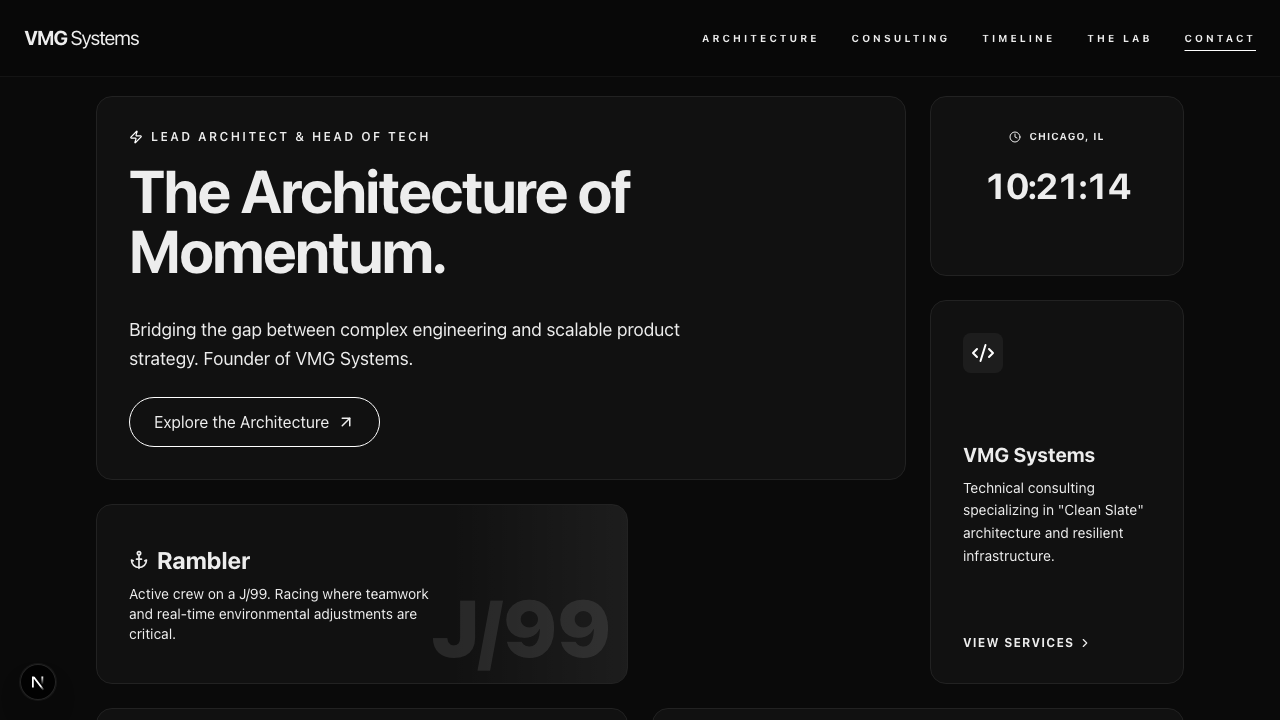
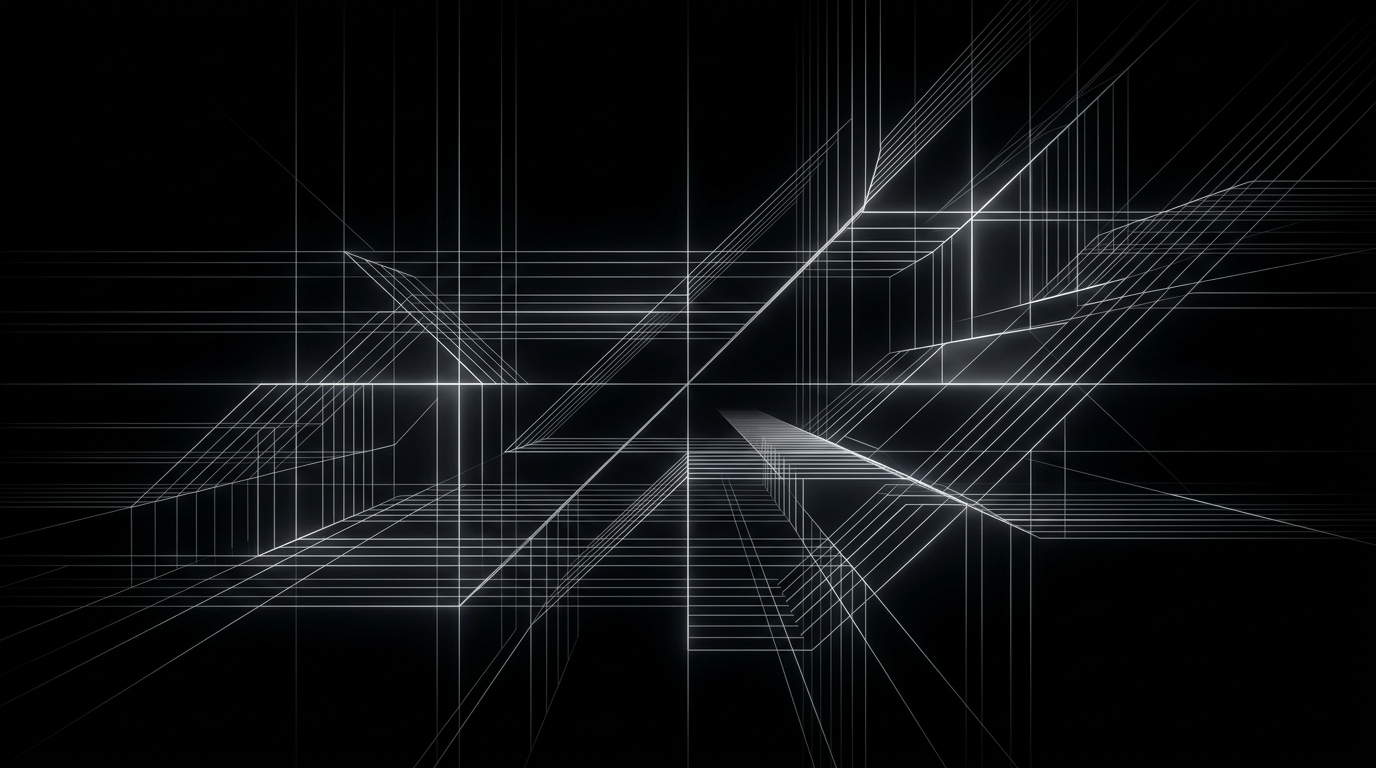
feat(ui): update custom dark-mode background visuals and card typography

diff --git a/src/app/page.tsx b/src/app/page.tsx
@@ -75,8 +75,8 @@ export default function Home() {
               <Zap size={14} className="text-white" />
               <span>Lead Architect & Head of Tech</span>
             </div>
-            <h1 className="text-4xl md:text-5xl lg:text-7xl font-black tracking-tighter mb-4 text-white leading-[1.1]">
-              The Architecture of <br />
+            <h1 className="text-4xl md:text-5xl lg:text-6xl font-black tracking-tight mb-4 text-white leading-tight md:leading-tight">
+              Architecture of <br />
               <span className="text-white">Momentum.</span>
             </h1>
             <p className="text-white/70 text-base md:text-lg leading-relaxed mb-8 max-w-xl font-medium">
@@ -127,18 +127,29 @@ export default function Home() {
         {/* Sailing / Lab Card */}
         <motion.div 
           variants={item}
-          className="glass-card md:col-span-2 flex items-center justify-between group cursor-default relative overflow-hidden"
+          className="glass-card md:col-span-2 group cursor-default relative overflow-hidden !p-0 border border-[#1a1a1a] flex flex-col justify-center"
         >
-          <div className="relative z-10">
-            <h3 className="text-2xl font-bold mb-2 flex items-center gap-2">
-              <Anchor size={20} /> Rambler
-            </h3>
-            <p className="text-muted text-sm max-w-xs">
-              Active crew on a J/99. Racing where teamwork and real-time environmental adjustments are critical.
-            </p>
+          <div className="absolute inset-0 z-0">
+            <Image 
+              src="/sailing.png" 
+              alt="Sailing Fluid Dynamics" 
+              fill
+              className="object-cover opacity-30 group-hover:scale-105 group-hover:opacity-40 transition-all duration-1000 ease-out grayscale"
+            />
+            <div className="absolute inset-0 bg-gradient-to-r from-black via-black/80 to-transparent" />
           </div>
-          <div className="font-mono text-[80px] leading-none font-black opacity-5 absolute right-4 bottom-4 select-none pointer-events-none">
-            J/99
+          <div className="relative z-10 p-8 flex items-center justify-between w-full h-full">
+            <div className="relative z-10">
+              <h3 className="text-2xl font-bold mb-2 flex items-center gap-2">
+                <Anchor size={20} /> Rambler
+              </h3>
+              <p className="text-white/70 text-sm max-w-xs">
+                Active crew on a J/99. Racing where teamwork and real-time environmental adjustments are critical.
+              </p>
+            </div>
+            <div className="font-mono text-[80px] leading-none font-black opacity-10 select-none pointer-events-none relative z-10">
+              J/99
+            </div>
           </div>
         </motion.div>
 
@@ -191,18 +202,29 @@ export default function Home() {
         {/* Manifesto Preview */}
         <motion.div 
           variants={item}
-          className="glass-card md:col-span-2 flex flex-col justify-between hover:scale-[1.01] transition-all relative group/manifesto hover:border-white/40"
+          className="glass-card md:col-span-2 hover:scale-[1.01] transition-all relative group/manifesto hover:border-[#333] !p-0 overflow-hidden border border-[#1a1a1a] flex flex-col justify-between"
         >
-          <Link href="/consulting" className="absolute inset-0 z-10" aria-label="Read Manifesto" />
-          <div className="relative z-0 pointer-events-none">
-            <h3 className="text-2xl font-black uppercase italic leading-none mb-2 tracking-tighter">Clean Slate</h3>
-            <p className="text-sm leading-snug font-medium text-muted group-hover/manifesto:text-white transition-colors">
-              &quot;We don&apos;t fight complexity; we design architectures that thrive on it.&quot;
-            </p>
+          <div className="absolute inset-0 z-0">
+            <Image 
+              src="/manifesto.png" 
+              alt="Clean Slate Architecture Blueprint" 
+              fill
+              className="object-cover opacity-20 group-hover:scale-105 group-hover:opacity-40 transition-all duration-1000 ease-out grayscale"
+            />
+            <div className="absolute inset-0 bg-gradient-to-t from-black via-black/80 to-black/40" />
           </div>
-          <div className="flex justify-between items-end mt-4 relative z-0 pointer-events-none">
-            <div className="text-[10px] font-bold uppercase tracking-tighter underline underline-offset-4 opacity-50 group-hover/manifesto:opacity-100 transition-opacity">Read Manifesto</div>
-            <Cpu size={24} strokeWidth={2.5} className="text-muted group-hover/manifesto:text-white transition-colors" />
+          <Link href="/consulting" className="absolute inset-0 z-20" aria-label="Read Manifesto" />
+          <div className="relative z-10 p-8 flex flex-col justify-between h-full pointer-events-none">
+            <div>
+              <h3 className="text-2xl font-black uppercase italic leading-none mb-2 tracking-tighter">Clean Slate</h3>
+              <p className="text-sm leading-snug font-medium text-white/60 group-hover/manifesto:text-white transition-colors max-w-sm">
+                &quot;We don&apos;t fight complexity; we design architectures that thrive on it.&quot;
+              </p>
+            </div>
+            <div className="flex justify-between items-end mt-6 relative z-0 pointer-events-none">
+              <div className="text-[10px] font-bold uppercase tracking-tighter underline underline-offset-4 opacity-50 group-hover/manifesto:opacity-100 transition-opacity text-white">Read Manifesto</div>
+              <Cpu size={24} strokeWidth={2.5} className="text-white/40 group-hover/manifesto:text-white transition-colors" />
+            </div>
           </div>
         </motion.div>
 
